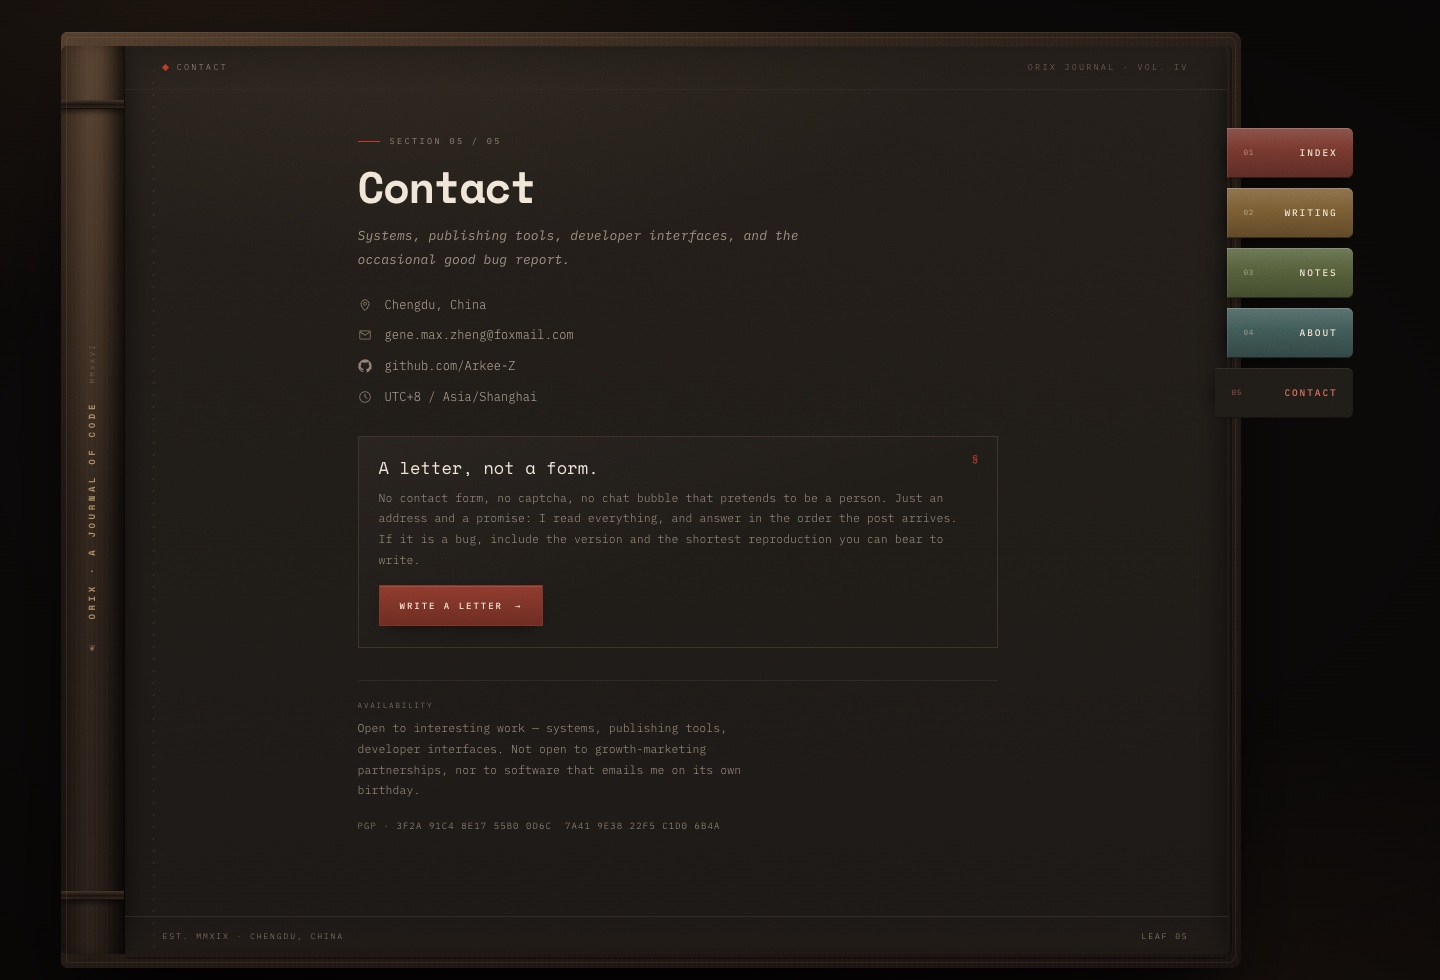
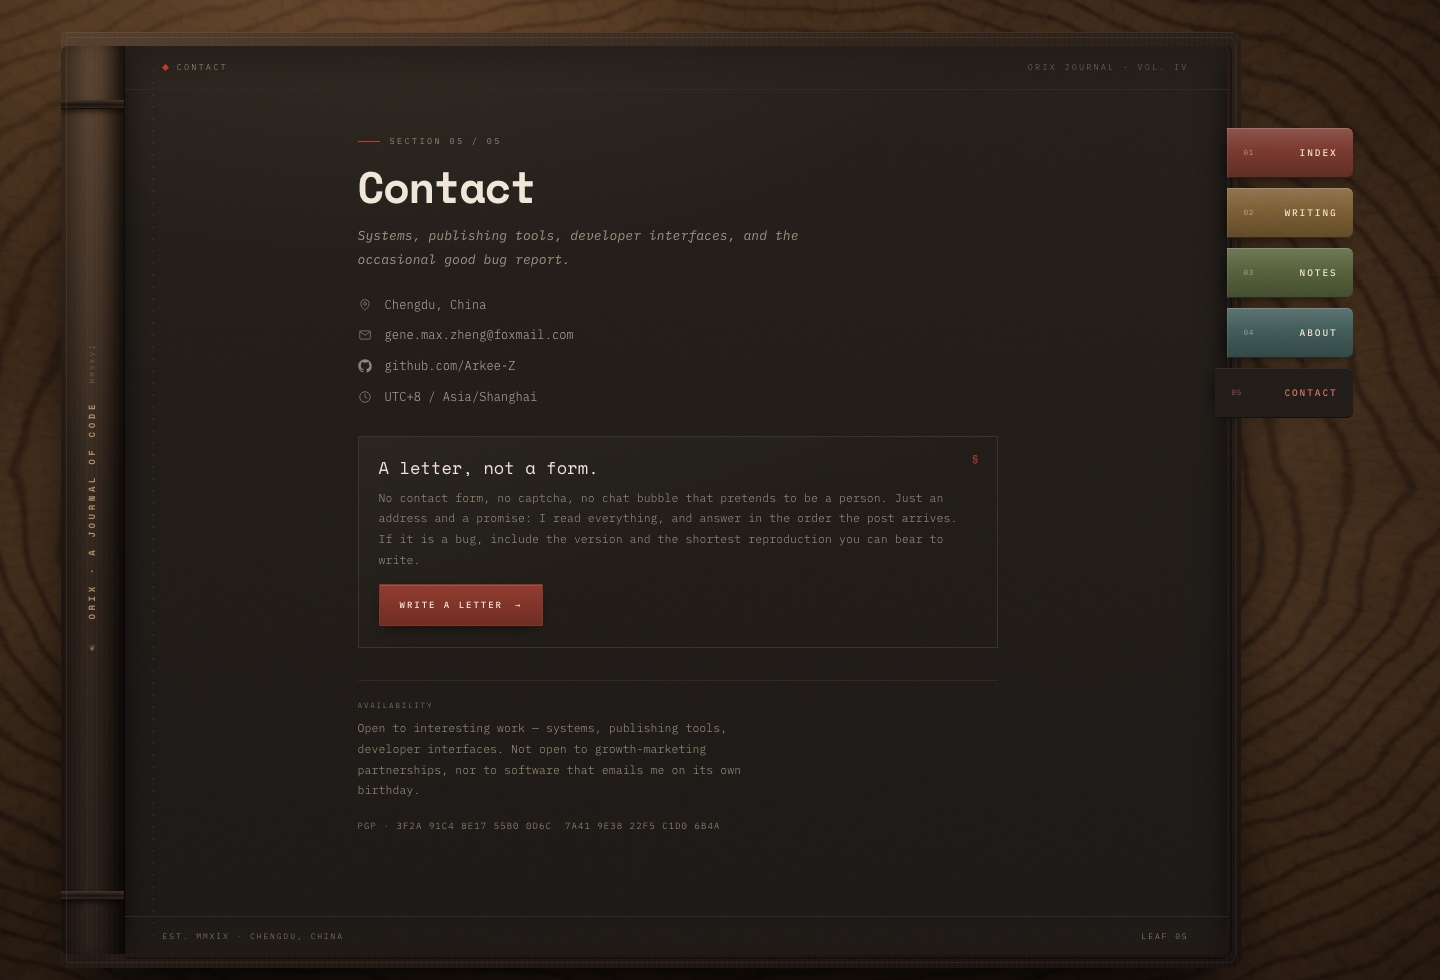
style: set the journal on a walnut desk
Replace the near-black backdrop with a generated end-grain walnut slab texture, warm lamp light, and a vignette. Refresh the preview images and README design notes.

Changed region(s): [[0.0, 0.0, 1.0, 1.0]]

diff --git a/src/styles/global.css b/src/styles/global.css
@@ -67,7 +67,7 @@
 	color-scheme: dark;
 
 	/* the desk */
-	--desk: #0c0a09;
+	--desk: #2a1a10;
 	--cover: #241b15;
 	--cover-hi: #3d2e22;
 
@@ -130,9 +130,18 @@ body {
 	overflow: hidden;
 	background-color: var(--desk);
 	background-image:
-		radial-gradient(70% 55% at 16% -4%, rgba(126, 89, 58, 0.18), transparent 68%),
-		radial-gradient(55% 45% at 88% 104%, rgba(96, 64, 44, 0.14), transparent 70%),
-		radial-gradient(120% 90% at 50% 45%, transparent 36%, rgba(0, 0, 0, 0.6) 100%);
+		radial-gradient(62% 50% at 16% -6%, rgba(255, 205, 150, 0.12), transparent 68%),
+		radial-gradient(120% 92% at 50% 45%, transparent 32%, rgba(6, 3, 2, 0.62) 100%),
+		url("/textures/wood-desk.webp");
+	background-size:
+		auto,
+		auto,
+		cover;
+	background-position:
+		center,
+		center,
+		50% 48%;
+	background-repeat: no-repeat;
 	color: var(--ink);
 	font-family: var(--font-mono);
 	font-size: 15px;
@@ -154,7 +163,7 @@ body::before {
 	pointer-events: none;
 	background-image: var(--noise);
 	background-size: 180px 180px;
-	opacity: 0.05;
+	opacity: 0.07;
 	mix-blend-mode: overlay;
 }
 

diff --git a/README.md b/README.md
@@ -1,9 +1,9 @@
 # Orix Journal
 
-A small personal blog for Gene Max Zhang, set like a book. Dark warm paper, a
-blind-tooled cover, a stitched spine, and five index tabs on the right edge of
-the page. Built with Astro and plain CSS — no client-side framework, no theme
-switcher, no analytics.
+A small personal blog for Gene Max Zhang, set like a book on a dark walnut
+desk. Warm paper, a blind-tooled cover, a stitched spine, and five index tabs on
+the right edge of the page. Built with Astro and plain CSS — no client-side
+framework, no theme switcher, no analytics.
 
 ## The idea
 
@@ -92,6 +92,9 @@ full essays.
   in `public/fonts/` (SIL Open Font License) and preloaded by the layout.
 - **Palette**: warm near-black cover, dark brown paper, muted bone ink, vermilion
   seal marks, and five low-saturation tab colors.
+- **Desk**: a generated end-grain walnut slab in
+  `public/textures/wood-desk.webp`, lit from the upper left and vignetted so the
+  book stays the focus.
 - **Book details**: CSS gradients for the leather, an SVG noise grain for paper,
   stitched gutter, blind-tooled cover border, running head, folio, and index
   tabs.
